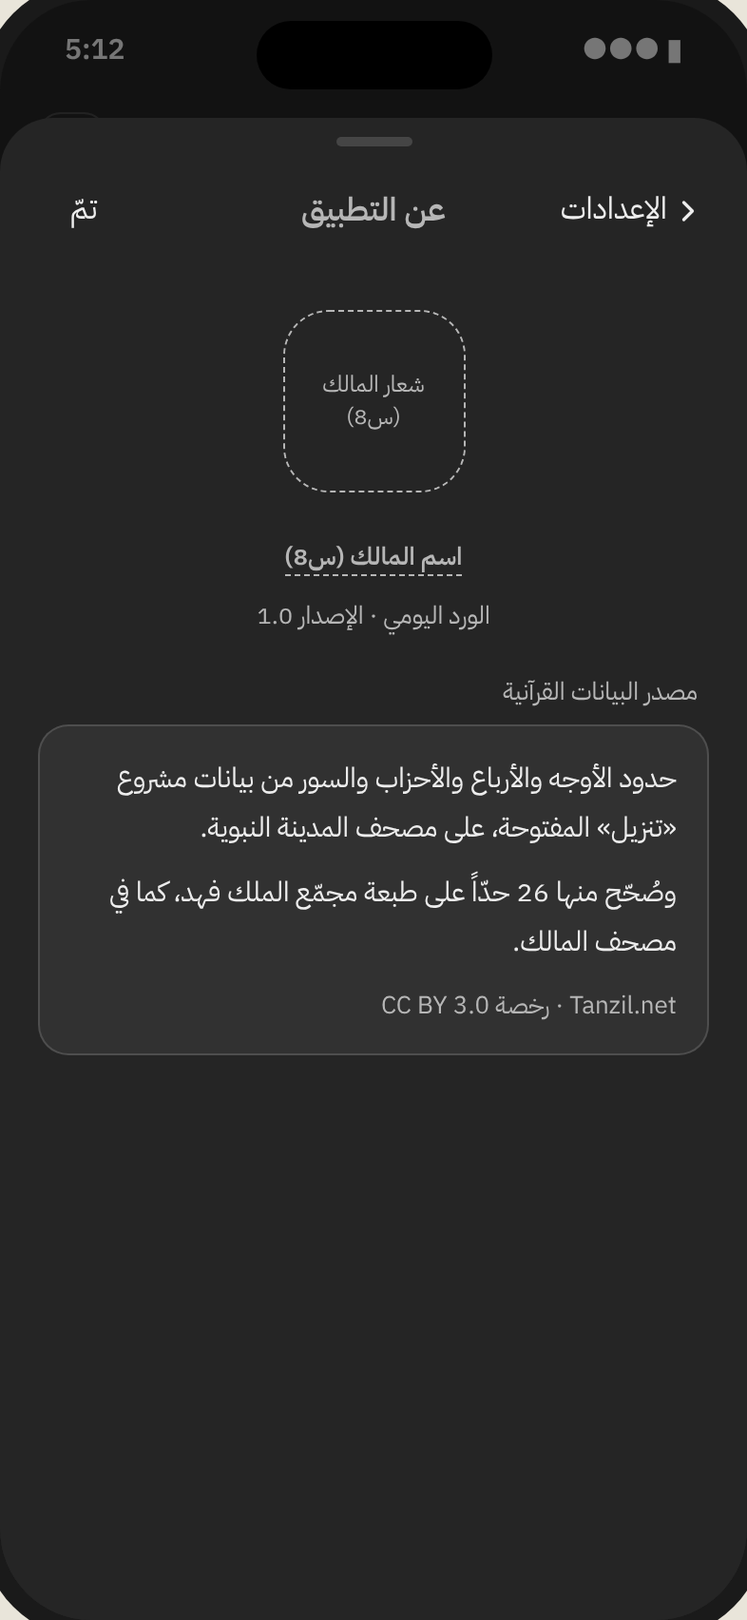
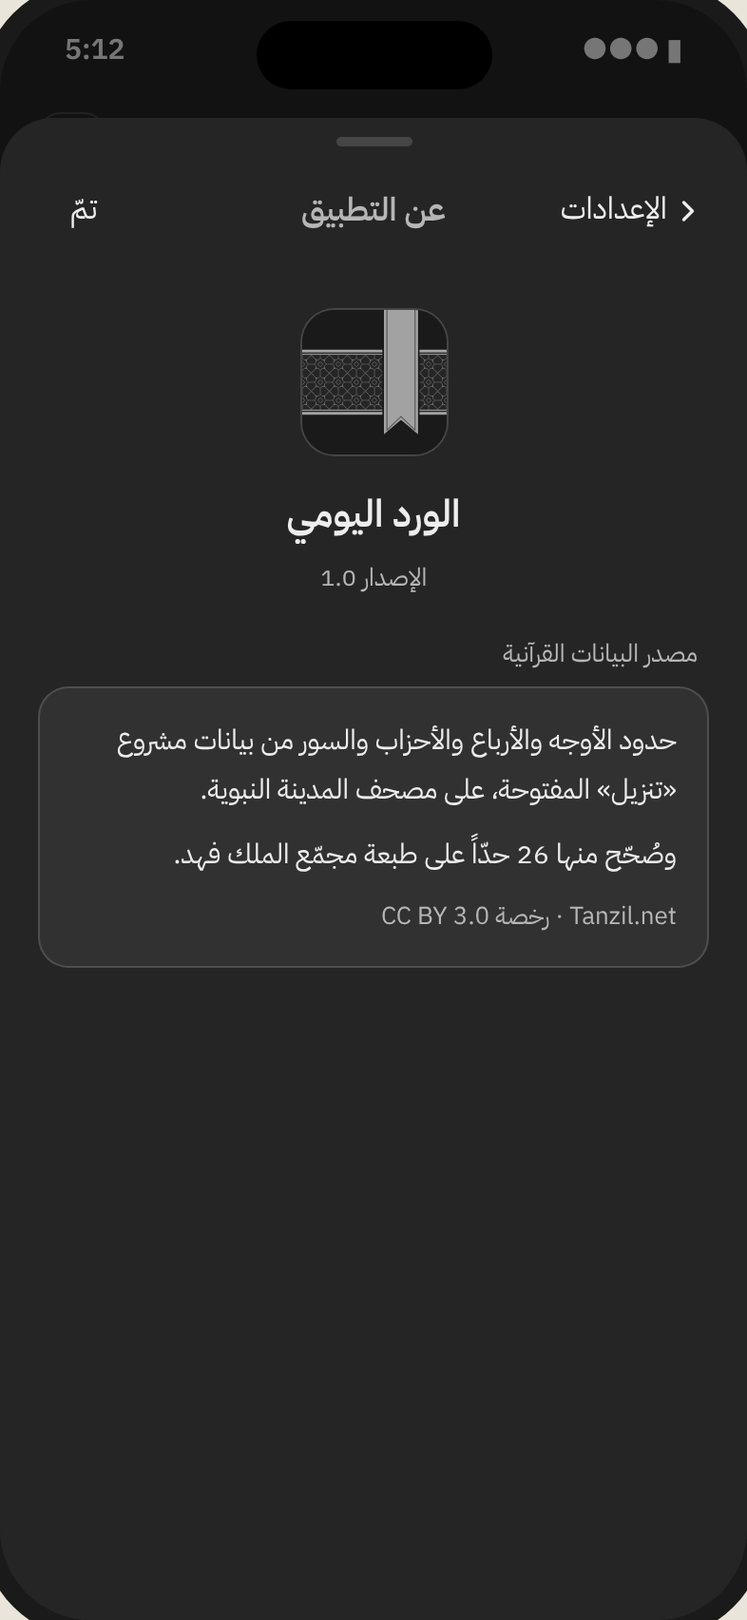
ش6 · التصميم: القرار 32 (لا اسم ولا شعار للمالك)، وإغلاق س8، و«عن التطبيق» بأيقونة التطبيق (ذ53) وسطر المصدر (ذ52)
Claude-Session: https://claude.ai/code/session_01RdLZ2AiLBoM5Y8FcgNqr5g

Changed region(s): [[0.1527, 0.4043, 0.9466, 0.6221], [0.3664, 0.1866, 0.6412, 0.4043], [0.6718, 0.6221, 0.7328, 0.6532]]

diff --git a/design/s6.html b/design/s6.html
@@ -47,7 +47,7 @@ table.ct th{font-weight:600}
   <div class="gal" id="g2"></div>
 
   <h2 class="grp">3 · الإعدادات و«عن التطبيق» (7.4)</h2>
-  <p class="grp">زرّ الترس في الرأس يفتح ورقة «الإعدادات» بما في الوثيقة وحده: حالة النسخ الاحتياطي (5.8)، والإصدار، و«عن التطبيق». ولا إعداد للورد (12: مؤجّل)، ولا اختيار للوضع الليلي (يتبع الجهاز). و«عن التطبيق» فيها وحدها شعار المالك واسمه (8.3)، ومصدر البيانات القرآنية بنسبته إلى «تنزيل» كما تشترط رخصته.</p>
+  <p class="grp">زرّ الترس في الرأس يفتح ورقة «الإعدادات» بما في الوثيقة وحده: حالة النسخ الاحتياطي (5.8)، والإصدار، و«عن التطبيق». ولا إعداد للورد (12: مؤجّل)، ولا اختيار للوضع الليلي (يتبع الجهاز). و«عن التطبيق» فيها أيقونة التطبيق واسمه وإصداره، ومصدر البيانات القرآنية بنسبته إلى «تنزيل» كما تشترط رخصته. ولا اسم للمالك ولا شعار، لأن التطبيق فكرته عامة (القرار 32).</p>
   <div class="gal" id="g3"></div>
 
   <h2 class="grp">4 · أكبر أحجام الخط (م46)</h2>
@@ -117,9 +117,9 @@ S6.launch(fig('g2',{id:'s6-launch-440',size:'s440',dark:true,title:'24 · 440×9
 S6.settings(fig('g3',{id:'s6-settings',title:'25 · الإعدادات قبل ش7',cap:'iCloud لم يُفعَّل في البناء بعدُ (ش7): «سجلّك محفوظ في هذا الجهاز». الإصدار، ثم «عن التطبيق».'}),mine(),{cloud:'local'});
 S6.settings(fig('g3',{id:'s6-settings-on',title:'26 · بعد ش7: النسخ يعمل',cap:'دائرة ممتلئة فيها صحّ.'}),mine(),{cloud:'on'});
 S6.settings(fig('g3',{id:'s6-settings-off',title:'27 · iCloud غير مفعّل في الجهاز',cap:'سطر التنبيه الهادئ بنصّ 5.8، بدائرة فارغة وسحابة مشطوبة، ولا أحمر.'}),mine(),{cloud:'off'});
-S6.settings(fig('g3',{id:'s6-about',title:'28 · عن التطبيق',cap:'الشعار والاسم في الأعلى، ثم مصدر البيانات. ينتظر ملفّ الشعار والاسم كما يحبّ المالك أن يُكتب (س8).'}),mine(),{about:true});
+S6.settings(fig('g3',{id:'s6-about',title:'28 · عن التطبيق',cap:'أيقونة التطبيق واسمه وإصداره، ثم مصدر البيانات. بلا اسم المالك ولا شعاره (القرار 32، ذ53).'}),mine(),{about:true});
 S6.settings(fig('g3',{id:'s6-settings-dark',dark:true,title:'29 · الإعدادات ليلاً',cap:''}),mine(),{cloud:'on'});
-S6.settings(fig('g3',{id:'s6-about-dark',dark:true,title:'30 · عن التطبيق ليلاً',cap:''}),mine(),{about:true});
+S6.settings(fig('g3',{id:'s6-about-dark',dark:true,title:'30 · عن التطبيق ليلاً',cap:'بالأيقونة الداكنة.'}),mine(),{about:true,dark:true});
 S6.settings(fig('g3',{id:'s6-about-375',size:'s375',title:'31 · عن التطبيق على 375×667',cap:''}),mine(),{about:true});
 
 /* 4 · أكبر الخطوط */

diff --git a/design/shared/s6.js b/design/shared/s6.js
@@ -31,18 +31,18 @@ function settingsHTML(o={}){
     </div></div>`;
 }
 function aboutHTML(o={}){
-  const logo=o.logo?`<img class="logo" src="${o.logo}" alt="">`:`<div class="logo" aria-hidden="true">شعار المالك<br>(س8)</div>`;
   return `<div class="dim"></div><div class="sheet tall set about" role="dialog" aria-label="عن التطبيق"><div class="shd"><div class="grab"></div>
     <div class="ttl sub"><button class="back">${ARR}الإعدادات</button><h4>عن التطبيق</h4><button class="lnk">تمّ</button></div></div>
     <div class="slist">
-      <div class="who">${logo}<b><span class="ph">${o.name||'اسم المالك (س8)'}</span></b><span>الورد اليومي · الإصدار 1.0</span></div>
+      <div class="who"><img class="appic" src="icon/app-icon-${o.dark?'dark':'light'}-1024.png" alt=""><b>الورد اليومي</b><span>الإصدار 1.0</span></div>
       <div class="sgh">مصدر البيانات القرآنية</div>
       <div class="sgrp"><div class="src">
         <p>حدود الأوجه والأرباع والأحزاب والسور من بيانات مشروع «تنزيل» المفتوحة، على مصحف المدينة النبوية.</p>
-        <p>وصُحّح منها 26 حدّاً على طبعة مجمّع الملك فهد، كما في مصحف المالك.</p>
+        <p>وصُحّح منها 26 حدّاً على طبعة مجمّع الملك فهد.</p>
         <p class="m">Tanzil.net · رخصة CC BY 3.0</p></div></div>
     </div></div>`;
 }
+/* «عن التطبيق» بلا اسم المالك ولا شعاره (القرار 32): أيقونة التطبيق واسمه وإصداره، ثم مصدر البيانات */
 /* الشاشة الرئيسية كما في ش5، وفوقها الورقة */
 function settings(scr,S,o={}){S5.still(scr,S);scr.insertAdjacentHTML('beforeend',o.about?aboutHTML(o):settingsHTML(o));scr.classList.add('s6set');}
 /* شاشة البداية: صورة واحدة بقياس الشاشة من design/launch/ (يولّدها design/tools/build_launch.py) */

diff --git a/design/shared/s6.css b/design/shared/s6.css
@@ -22,8 +22,9 @@
 .set .ttl.sub{display:grid;grid-template-columns:1fr auto 1fr;align-items:center}
 .set .ttl.sub h4{font-size:17px;text-align:center}
 .set .ttl.sub .lnk{justify-self:end}
-/* «عن التطبيق»: الشعار والاسم هنا وحدهما (8.3) */
+/* «عن التطبيق»: أيقونة التطبيق واسمه وإصداره (القرار 32، ذ53) */
 .about .who{display:flex;flex-direction:column;align-items:center;text-align:center;gap:6px;margin:22px 0 4px}
+.about .appic{width:76px;height:76px;border-radius:17px;display:block;box-shadow:0 0 0 1px var(--line)}
 .about .logo{width:96px;height:96px;border-radius:24px;border:1.5px dashed var(--muted);display:flex;align-items:center;justify-content:center;
   font-size:12px;color:var(--muted);line-height:1.4;padding:8px}
 .about .who b{font-size:20px;font-weight:600;margin-top:8px}

diff --git a/design/system.md b/design/system.md
@@ -620,7 +620,7 @@ IBM Plex Sans Arabic مضمّن (`App/Resources/Fonts`، OFL). الأحجام ع
 ### 17.2 شاشة البداية (8.3 · ذ47)
 - **الأيقونة مبسوطة على الشاشة:** أرضية `paper`، وفي منتصفها طولاً شريط رأس السورة بعرض الشاشة (85 نقطة بمسطرتيه: غليظة 3.7 ثم فراغ 1.5 ثم رفيعة 1.3، والشريط 72 بنقش النجمة والصليب بوحدة 24)، وشريط العلامة البرتقالي (عرضه 44.5) منسدل من أعلى الشاشة إلى 32 بعد الشريط، طرفه مشقوق بعمق 19، ومركزه على 68% من عرض الشاشة من اليسار كما في الأيقونة (700 من 1024). وحول العلامة فاصل بلون الأرضية 4، وفيها خطّ داخلي كحلي شفافيته 0.55. **كل القياسات = الأيقونة × 72/388.**
 - **ليلاً:** الأرضية `#13283E`، والشريط `#1B3450` (أفتح من الأرضية كما في الأيقونة الداكنة)، والذهبي والبرتقالي `#E39A33`.
-- **لا نصّ ولا شعار المالك** (ذ47): 8.3 تجيز الشعار هنا ولا توجبه، وApple توصي بشاشة بداية بلا شعار تشبه ما بعدها. والصورة تكمل حركة الأيقونة حين يكبر رمزها عند الفتح. وشعار المالك واسمه في «عن التطبيق». فإن أراده المالك هنا أيضاً: صغيراً (56) تحت الشريط بـ 40، بلون `muted`.
+- **لا نصّ ولا شعار المالك** (ذ47): 8.3 تجيز الشعار هنا ولا توجبه، وApple توصي بشاشة بداية بلا شعار تشبه ما بعدها. والصورة تكمل حركة الأيقونة حين يكبر رمزها عند الفتح. ولا شعار للمالك ولا اسم في أي شاشة (القرار 32).
 - **لا حركة:** iOS يعرضها لحظة ثم يحلّ الشاشة الرئيسية محلّها.
 - **الملفّات** (`design/launch/`، يولّدها `python3 design/tools/build_launch.py`): `launch-{light,dark}-{393,375,440}.svg` للمعاينة؛ و**للتطبيق قطعتان** بنسختي Any وDark: `launch-band-*.svg` (1320×85، يُقصّ من الجانبين) و`launch-ribbon-*.svg` (العلامة مع فاصلها، 48.62 عرضاً = (240 + 22) × 72/388).
 - **للمهندس:** `LaunchScreen.storyboard` (`UILaunchStoryboardName`): لون الخلفية من أصل `LaunchPaper` (Any `#F7F4EC` / Dark `#13283E`)؛ و`UIImageView` للشريط (`LaunchBand`، contentMode center، clipsToBounds، أفقياً ملء الشاشة، ارتفاع 85، مركزه مركز الشاشة طولاً)؛ و`UIImageView` للعلامة (`LaunchRibbon`، عرض 48.62 كالملفّ، أعلاه أعلى الشاشة لا المنطقة الآمنة، أسفله أسفل الشريط + 32 + 2.04 (نصف الفاصل)، ومركزه الأفقي بمضاعف 1.367 من مركز الشاشة)، وصورته مقطّعة (Slicing) عمودياً تحفظ أسفل 30 (الشقّ) وتمدّ ما فوقه. وفي أصول الصور «Preserve Vector Data».
@@ -631,10 +631,10 @@ IBM Plex Sans Arabic مضمّن (`App/Resources/Fonts`، OFL). الأحجام ع
   - **النسخ الاحتياطي:** صفّ واحد بحالة من ثلاث، تحته شرح 13 `muted`. الحالة بشكل الشارة لا بلونها: **قبل ش7** (لا iCloud في البناء بعدُ): هاتف في دائرة بحدّ، «في هذا الجهاز · سجلّك محفوظ في هذا الجهاز»، وتحته الشرح «النسخ إلى iCloud يأتي في تحديث قريب، ويُنقل إليه سجلّك كما هو.» (م53: لا تُذكر «ش7» في نصّ يقرؤه المالك) · **iCloud يعمل** (s6-settings-on): صحّ في دائرة ممتلئة، «iCloud · يُنسخ سجلّك إلى iCloud تلقائياً» · **iCloud غير مفعّل في الجهاز** (s6-settings-off): سحابة مشطوبة في دائرة بحدّ هادئ، و**نصّ 5.8 حرفاً**: «النسخ الاحتياطي متوقّف: iCloud غير مفعّل». ولا أحمر (ذ7).
   - **التطبيق:** «الإصدار» وقيمته `muted` من `CFBundleShortVersionString` · «عن التطبيق» بسهم يفتحها داخل الورقة نفسها (دفع، لا ورقة ثانية).
   - **لا غير ذلك:** لا إعدادات ورد (12)، ولا اختيار للوضع الليلي (يتبع الجهاز، §1)، ولا شيء للعدّاد.
-- **«عن التطبيق»** (s6-about): رأسها «‹ الإعدادات» للرجوع، والعنوان في الوسط، و«تمّ». ثم في الوسط **شعار المالك** 96 بزاوية 24، و**اسمه** 20 600، وتحته «الورد اليومي · الإصدار 1.0» `muted`. ثم مجموعة **«مصدر البيانات القرآنية»**: «حدود الأوجه والأرباع والأحزاب والسور من بيانات مشروع «تنزيل» المفتوحة، على مصحف المدينة النبوية.» · «وصُحّح منها 26 حدّاً على طبعة مجمّع الملك فهد، كما في مصحف المالك.» (القرار 12) · «Tanzil.net · رخصة CC BY 3.0» `muted` (نسبة تشترطها الرخصة، `data/SOURCE.md`). **«الورد اليومي» اسم عمل** (القرار 9) يُقرأ من `AppInfo.name`.
-- **ينتظر (س8):** ملفّ شعار المالك، واسمه كما يحبّ أن يُكتب. الصفحة مصمّمة بمكانهما؛ وحتى يصلا يُبنى كل ما سواهما.
+- **«عن التطبيق»** (s6-about): رأسها «‹ الإعدادات» للرجوع، والعنوان في الوسط، و«تمّ». ثم في الوسط **أيقونة التطبيق** 76 بزاوية 17 (الفاتحة نهاراً والداكنة ليلاً، بحدّ `line`)، و**«الورد اليومي»** 20 600، وتحته «الإصدار 1.0» `muted` (ذ53). **ولا اسم للمالك ولا شعار** (القرار 32: التطبيق فكرته عامة). ثم مجموعة **«مصدر البيانات القرآنية»**: «حدود الأوجه والأرباع والأحزاب والسور من بيانات مشروع «تنزيل» المفتوحة، على مصحف المدينة النبوية.» · «وصُحّح منها 26 حدّاً على طبعة مجمّع الملك فهد.» (القرار 12؛ ولا يُذكر «مصحف المالك» في نصّ عامّ، القرار 32 وذ52) · «Tanzil.net · رخصة CC BY 3.0» `muted` (نسبة تشترطها الرخصة، `data/SOURCE.md`). **«الورد اليومي» اسم عمل** (القرار 9) يُقرأ من `AppInfo.name`.
+- **س8 مغلقة بالقرار 32:** لا شعار للمالك ولا اسم في التطبيق كله، فلا يُنتظر ملفّ.
 - **الشارة (م52):** دائرة 26، ورمزها 15 في مركزها تماماً. وفي SwiftUI رمز النظام `checkmark` (و`icloud.slash` و`iphone`) بـ `.font(.system(size: 13, weight: .semibold))` داخل `Circle()` بـ `frame(width: 26, height: 26)`.
-- **إمكانية الوصول:** صفّ الحالة عنصر واحد يُقرأ عنوانه وحالته؛ والشارة زينة. والشعار صورة بتسمية «شعار [الاسم]».
+- **إمكانية الوصول:** صفّ الحالة عنصر واحد يُقرأ عنوانه وحالته؛ والشارة زينة. والأيقونة زينة (`accessibilityHidden`).
 
 ### 17.4 حجم الخط، وأصغر شاشة وأكبرها (8.3 · م46)
 - **القاعدة كما في §3 و§7:** النصوص تتبع Dynamic Type، ومربّعات الأرباع والأوجه وأرقامها ثابتة (`fixedFont`) فلا ينكسر الصفّ.
@@ -658,3 +658,5 @@ IBM Plex Sans Arabic مضمّن (`App/Resources/Fonts`، OFL). الأحجام ع
 | ذ49 | الإشعار العابر في أعلى الشاشة ما دام العدّاد كبيراً | أسفل الشاشة كله للعدّاد بعد ش5، والإشعار كان يلامس أسفل الدائرة |
 | ذ50 | الإعدادات ورقة بارتفاع الشاشة، و«عن التطبيق» تُفتح داخلها؛ وحالة النسخ بشارة شكلها يختلف (صحّ ممتلئ · سحابة مشطوبة · هاتف) | ورقة كأوراق التطبيق الأخرى (ذ3 من القرار 22)؛ والحالة تُقرأ بلا لون (8.3) |
 | ذ51 | الصفّ المرفوع مع قائمة الحزب يبقى ليلاً `card` لا `raised`، بظلّ أعمق (قرار المشرف) | هو الصفّ نفسه يُرى من فتحة التعتيم؛ لو تغيّر لونه لبدا شيئاً آخر تحت إصبع المالك |
+| ذ52 | سطر المصدر في «عن التطبيق»: «وصُحّح منها 26 حدّاً على طبعة مجمّع الملك فهد.» بلا «كما في مصحف المالك» (قرار المشرف) | القرار 32: التطبيق عامّ، فلا يُذكر المالك في نصّه |
+| ذ53 | «عن التطبيق» تبدأ بأيقونة التطبيق 76 واسمه وإصداره، مكان شعار المالك واسمه | القرار 32 أسقط الشعار والاسم؛ والأيقونة هوية التطبيق نفسه، فلا تبقى الصفحة بلا رأس |

diff --git a/docs/open-questions.md b/docs/open-questions.md
@@ -11,7 +11,7 @@
 | س5 | 9 نوفمبر 2026 | المصمّم | التباين بين درجات العمر (8.3) | «لا تقلّ بين درجتين متجاورتين من العمر عن 3:1». إن قيس بمتوسّط إضاءة المربّع فهو مستحيل بأربع درجات بين الورقي والكحلي (يلزمه 27:1 والمتاح 10.6:1). أخذتُ بتفسير: الدرجات تختلف بالشكل (ممتلئ · نصفه · مخطّط · فارغ)، وعلامة كل درجة تتباين مع الأرضية 3:1 على الأقل. فهل هذا هو المقصود؟ التفاصيل في `design/system.md` §2 | صياغة 8.3 وحدها؛ ولا يتغيّر التصميم، لأن التفسير الآخر لا تحقّقه أي ألوان | مفتوح |
 | س6 | 10 نوفمبر 2026 | المصمّم | تقدّم الدورة في ش2 (7.1 · 5.5 · 11) | البطاقة تكتب «0 من [عدد الأرباع]» منذ ش1، والدورة وموضع التوقّف تُبنى في ش3. فإذا ظُلّلت أرباع في ش2 بقي «0 من 36» وهو خطأ ظاهر. أقترح إخفاءه في ش2 حتى ش3 (ذ10)، ويبقى موضع التوقّف على أول ربع كما في ش1. فهل يُخفى، أم يُحسب من الآن عدد ما ظُلّل منذ إضافة أول حزب؟ | سطر التقدّم وحده في ش2؛ والتصميم يأخذ بالإخفاء حتى يُحسم | **مغلق** (10 نوفمبر 2026): حسمه المشرف بتفويض القرار 23 بالإخفاء حتى ش3 (ذ10) |
 | س7 | 10 نوفمبر 2026 | المصمّم | الحزب المنقول إلى مسار في منتصف دورته (5.5 · 5.2) | 5.5 تعرّف موضع التوقّف بأنه «أول ربع لم يُظلَّل منذ بداية الدورة الحالية»، وتقول في الإضافة: «يدخل الدورة الحالية غير مظلّل». فإن نُقل حزب من القريب إلى البعيد (أو العكس) وقد تُلي من أرباعه شيء بعد بداية دورة المسار الذي ينتقل إليه، فهل تُعدّ تلك التلاوة في دورته (بالتعريف) أم يدخلها غير مظلّل؟ أقترح التعريف: التلاوة تلاوة أينما كان الحزب، فلا يُطلب منه ربع تلاه أمس. والحزب الجديد المرفوع من المحفوظ الجديد يدخل غير مظلّل في الحالين (5.6) | عدّ أرباع الحزب المنقول في التقدّم وموضع التوقّف، في النقل وحده. والتصميم على التعريف، ولا يتغيّر الشكل | **مغلق** (10 نوفمبر 2026): حسمه المشرف بتفويض القرار 26 بالتعريف: تُعدّ التلاوة |
-| س8 | 11 نوفمبر 2026 | المصمّم | «عن التطبيق» (7.4 · 8.3) | فيها وحدها شعار المالك واسمه. ولا ملفّ لشعاره في المستودع ولا في ملفات المشروع، واسمه غير مكتوب في الوثيقة. فما ملفّ الشعار (يُفضَّل SVG أو PNG كبير بخلفية شفّافة، وبنسخة لليل إن كان داكناً)، وكيف يحبّ أن يُكتب اسمه؟ | الشعار والاسم في «عن التطبيق» وحدهما؛ وبقية ش6 تمضي، والصفحة مصمّمة بمكانهما (`design/system.md` §17.3) | مفتوح |
+| س8 | 11 نوفمبر 2026 | المصمّم | «عن التطبيق» (7.4 · 8.3) | فيها وحدها شعار المالك واسمه. ولا ملفّ لشعاره في المستودع ولا في ملفات المشروع، واسمه غير مكتوب في الوثيقة. فما ملفّ الشعار (يُفضَّل SVG أو PNG كبير بخلفية شفّافة، وبنسخة لليل إن كان داكناً)، وكيف يحبّ أن يُكتب اسمه؟ | الشعار والاسم في «عن التطبيق» وحدهما؛ وبقية ش6 تمضي، والصفحة مصمّمة بمكانهما (`design/system.md` §17.3) | مغلق: القرار 32 (لا اسم ولا شعار للمالك في التطبيق) |
 
 س1 وس2 (وس3 جزئياً) معروضة على المالك في ورقة المطابقة (ش0 · المرحلة 4): `data/المطابقة/ورقة-المطابقة.html`.
 

diff --git a/docs/decisions.md b/docs/decisions.md
@@ -35,6 +35,7 @@
 | 29 | 11 نوفمبر 2026 | ختام ش3 والإذن بـ ش4 | بعد تقرير ختام ش3 كتب المالك (8:44 بتوقيت الكويت): «بسم الله ابدأ، انتابني شعور بالنشوة و ترقب للابداع القادم ، بوركتم». أثره: **(1)** ش3 مغلقة معتمدة بقراراتها الذوقية (ذ18–ذ25). **(2)** إذن صريح بـ ش4 · المحفوظ الجديد حتى نهايتها، والقرارات الذوقية فيها للمشرف بالتفويض وتُذكر في ختامها موسومة «قرار ذوقي». **(3)** لا يبدأ شيء من ش5 إلا بإذن صريح جديد منه. (كتبه المصمّم بطلب المشرف) | 10.6 · 11 |
 | 30 | 11 نوفمبر 2026 | ختام ش4 والإذن بـ ش5 | بعد تقرير ختام ش4 كتب المالك (14:41 بتوقيت الكويت): «بسم الله ابدأها ثم توقف عند نهايتها». أثره: **(1)** ش4 مغلقة معتمدة بقراراتها الذوقية (ذ26–ذ38). **(2)** إذن صريح بـ ش5 · العدّاد حتى نهايتها، والقرارات الذوقية فيها للمشرف بالتفويض وتُذكر في ختامها موسومة «قرار ذوقي». **(3)** يُتوقّف عند نهاية ش5، فلا يبدأ شيء من ش6 إلا بإذن صريح جديد منه. (كتبه المصمّم بطلب المشرف) | 10.6 · 11 |
 | 31 | 11 نوفمبر 2026 | الإذن بـ ش6 مع اعتماد كامل | كتب المالك (15:04 بتوقيت الكويت): «أنجزها ولك اعتمادي الكامل فنيا وذوقيا ، انجزها بعد انتهاء ش٥». أثره: **(1)** تبدأ ش6 · الصقل فور ختام ش5، دون انتظار إذن جديد. **(2)** للمشرف اعتماد المالك الكامل فيها فنياً وذوقياً، ومنه ما كان للمالك بنفسه في 10.6 و11: الوضع الليلي، والأيقونة. وتُذكر قراراتها الذوقية في ختامها موسومة «قرار ذوقي». **(3)** يُعرض تقرير ختام ش5 كالمعتاد، ويُتوقّف بعد ش6 فلا يبدأ شيء من ش7 إلا بإذن صريح جديد منه. (كتبه المصمّم بطلب المشرف) | 10.6 · 11 |
+| 32 | 11 نوفمبر 2026 | لا اسم ولا شعار للمالك في التطبيق | جواباً عن س8 (شعاره واسمه في «عن التطبيق») كتب المالك (15:29 UTC): «نعم ، التطبيق فكرته عامة ، بالمستقبل قد ننُشئ حساب للمستخدم بحيث يكون فيه ارشيفه و تفضيلاته». أثره: **(1)** لا اسم للمالك ولا شعار في أي شاشة، ومنها «عن التطبيق» وشاشة البداية؛ **يخالف 7.4 و8.3** (الشعار في شاشة البداية و«عن التطبيق») فهو المعتمد. و«عن التطبيق»: أيقونة التطبيق واسمه وإصداره، ومصدر البيانات القرآنية بنسبته إلى «تنزيل» (`design/system.md` §17.3، ذ53). **(2)** أُغلقت س8. **(3)** حساب للمستخدم فيه أرشيفه وتفضيلاته **فكرة مستقبلية تُذكر ولا يُبنى منها شيء** في النسخة الأولى (مكانها مع «النشر للناس» في 12). (كتبه المصمّم بطلب المشرف) | 7.4 · 8.3 · 12 |
 
 ## القرارات الافتراضية (القسم 9) · بوّابة ش0
 اكتمل عرضها كلها في 9 نوفمبر 2026.

diff --git a/docs/logs/المصمّم.md b/docs/logs/المصمّم.md
@@ -3,7 +3,7 @@
 ## الحالة الآن
 - ش6 · التصميم: بُني في `design/s6.html` و`design/shared/s6.js` و`s6.css` وتعديلات ليلية في `ds.css`، وشاشة البداية `design/launch/` (يولّدها `design/tools/build_launch.py`)، والأيقونة الملوّنة `design/icon/app-icon-tinted.*`. المرجع المكتوب `design/system.md` §17، و74 لقطة `design/shots/s6-*`. على الفرع `designer/s6-design`، تنتظر المعاين ثم المدقّق، وتُدمج بالإذن الدائم.
 - قرارات ذوقية ذ45–ذ50 (system.md §17.6) اعتمدها المشرف كلها بتفويض القرار 31 (11 نوفمبر 2026).
-- معلّق: س8 (ملفّ شعار المالك واسمه لـ«عن التطبيق»). وإصلاح م52 وم53 وم55 على الفرع `designer/s6-fixes` ينتظر المعاين ثم المدقّق.
+- س8 مغلقة بالقرار 32: «عن التطبيق» بلا اسم المالك ولا شعاره، بأيقونة التطبيق (ذ53)، على الفرع `designer/s6-about` ينتظر المعاين ثم المدقّق.
 - ش5 مغلقة.
 
 ---
@@ -267,3 +267,13 @@
 - **§17.2:** عرض العلامة في النصّ صار 48.62 كالملفّ `launch-ribbon-*.svg` (الأيقونة (240 + 22) × 72/388)، وكان مكتوباً 56.6 خطأً. وأسفلها أسفل الشريط + 32 + 2.04 (نصف الفاصل في الملفّ). والمهندس اتّبع الملفّ.
 
 التالي: المعاين · ش6 · ذ51 وقياس العلامة
+
+---
+
+## 11 نوفمبر 2026 · ش6 · القرار 32: «عن التطبيق» بلا اسم المالك ولا شعاره
+
+- سجّلت القرار 32 في `docs/decisions.md` بطلب المشرف (يخالف 7.4 و8.3 فهو المعتمد)، وأغلقت س8.
+- «عن التطبيق»: أيقونة التطبيق 76 واسمه وإصداره مكان الشعار والاسم (ذ53)، والأيقونة الداكنة ليلاً. وحذفت «كما في مصحف المالك» من نصّ المصدر لأنه نصّ عامّ (ذ52، قرار المشرف). حُدّث §17.2 و§17.3 و§17.6، وأُعيد تصوير `s6-about*`.
+- حساب المستخدم فكرة مستقبلية في القرار، لا يُصمَّم لها شيء.
+
+التالي: المعاين · ش6 · «عن التطبيق» بعد القرار 32
